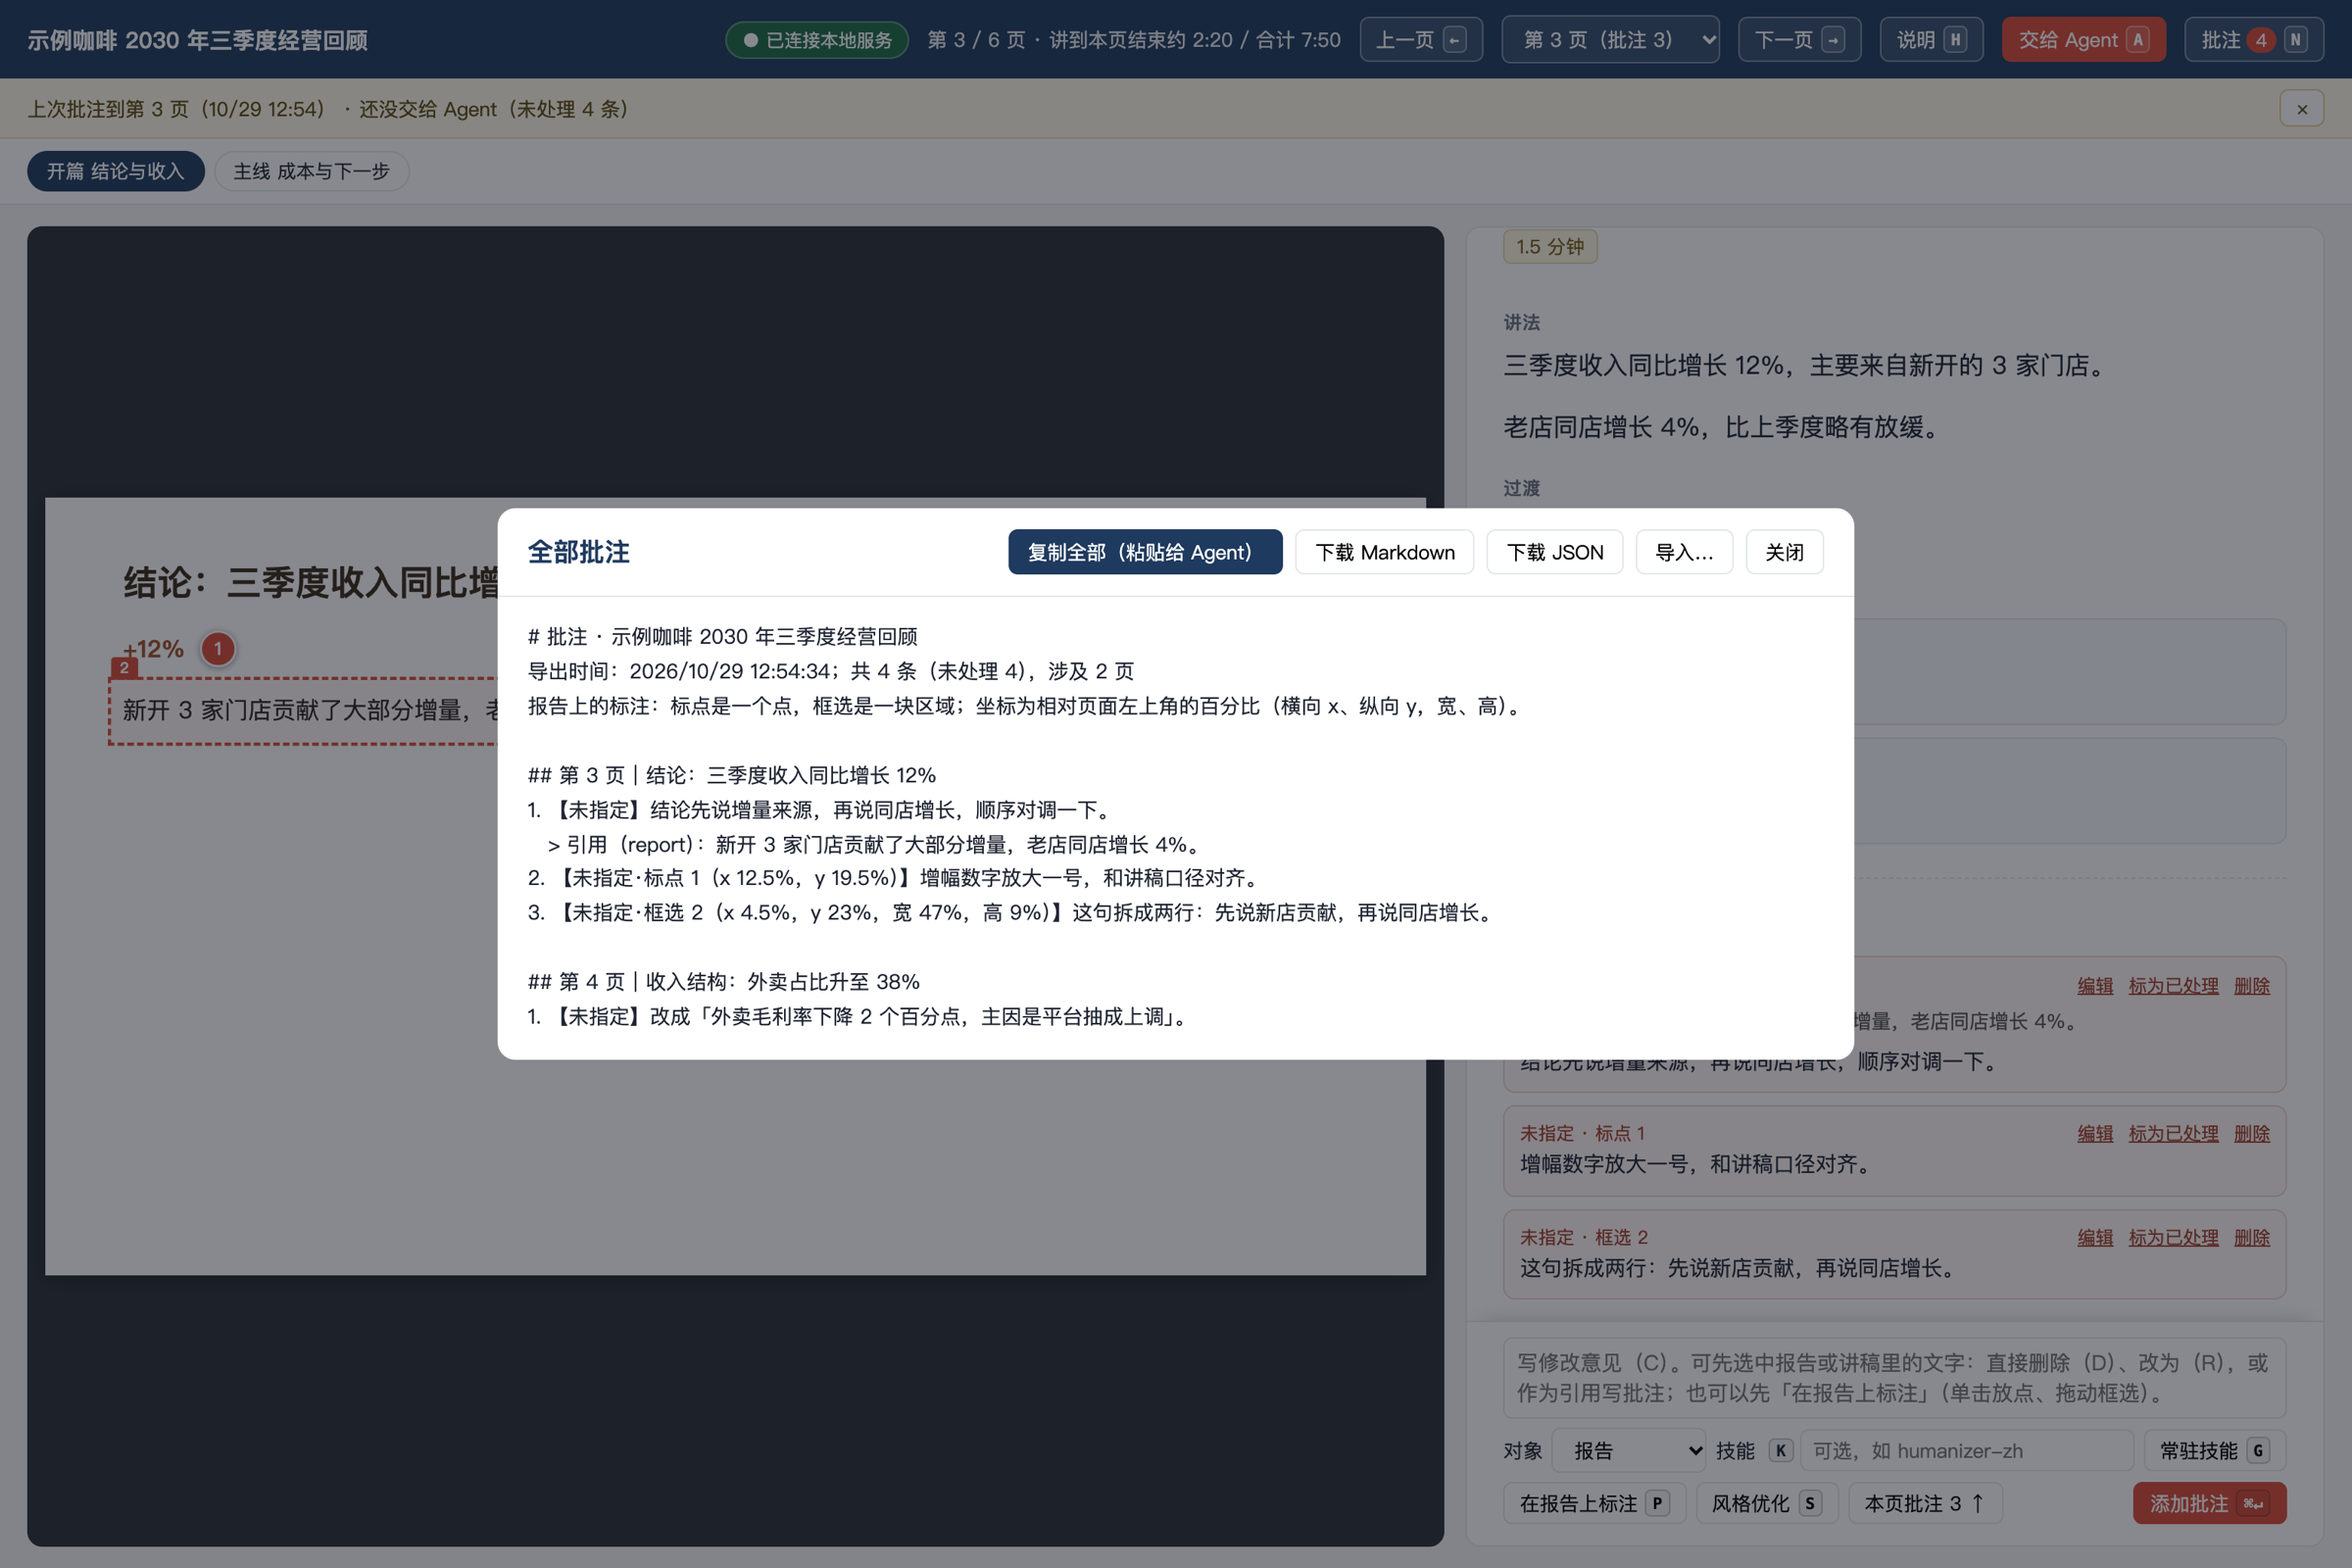
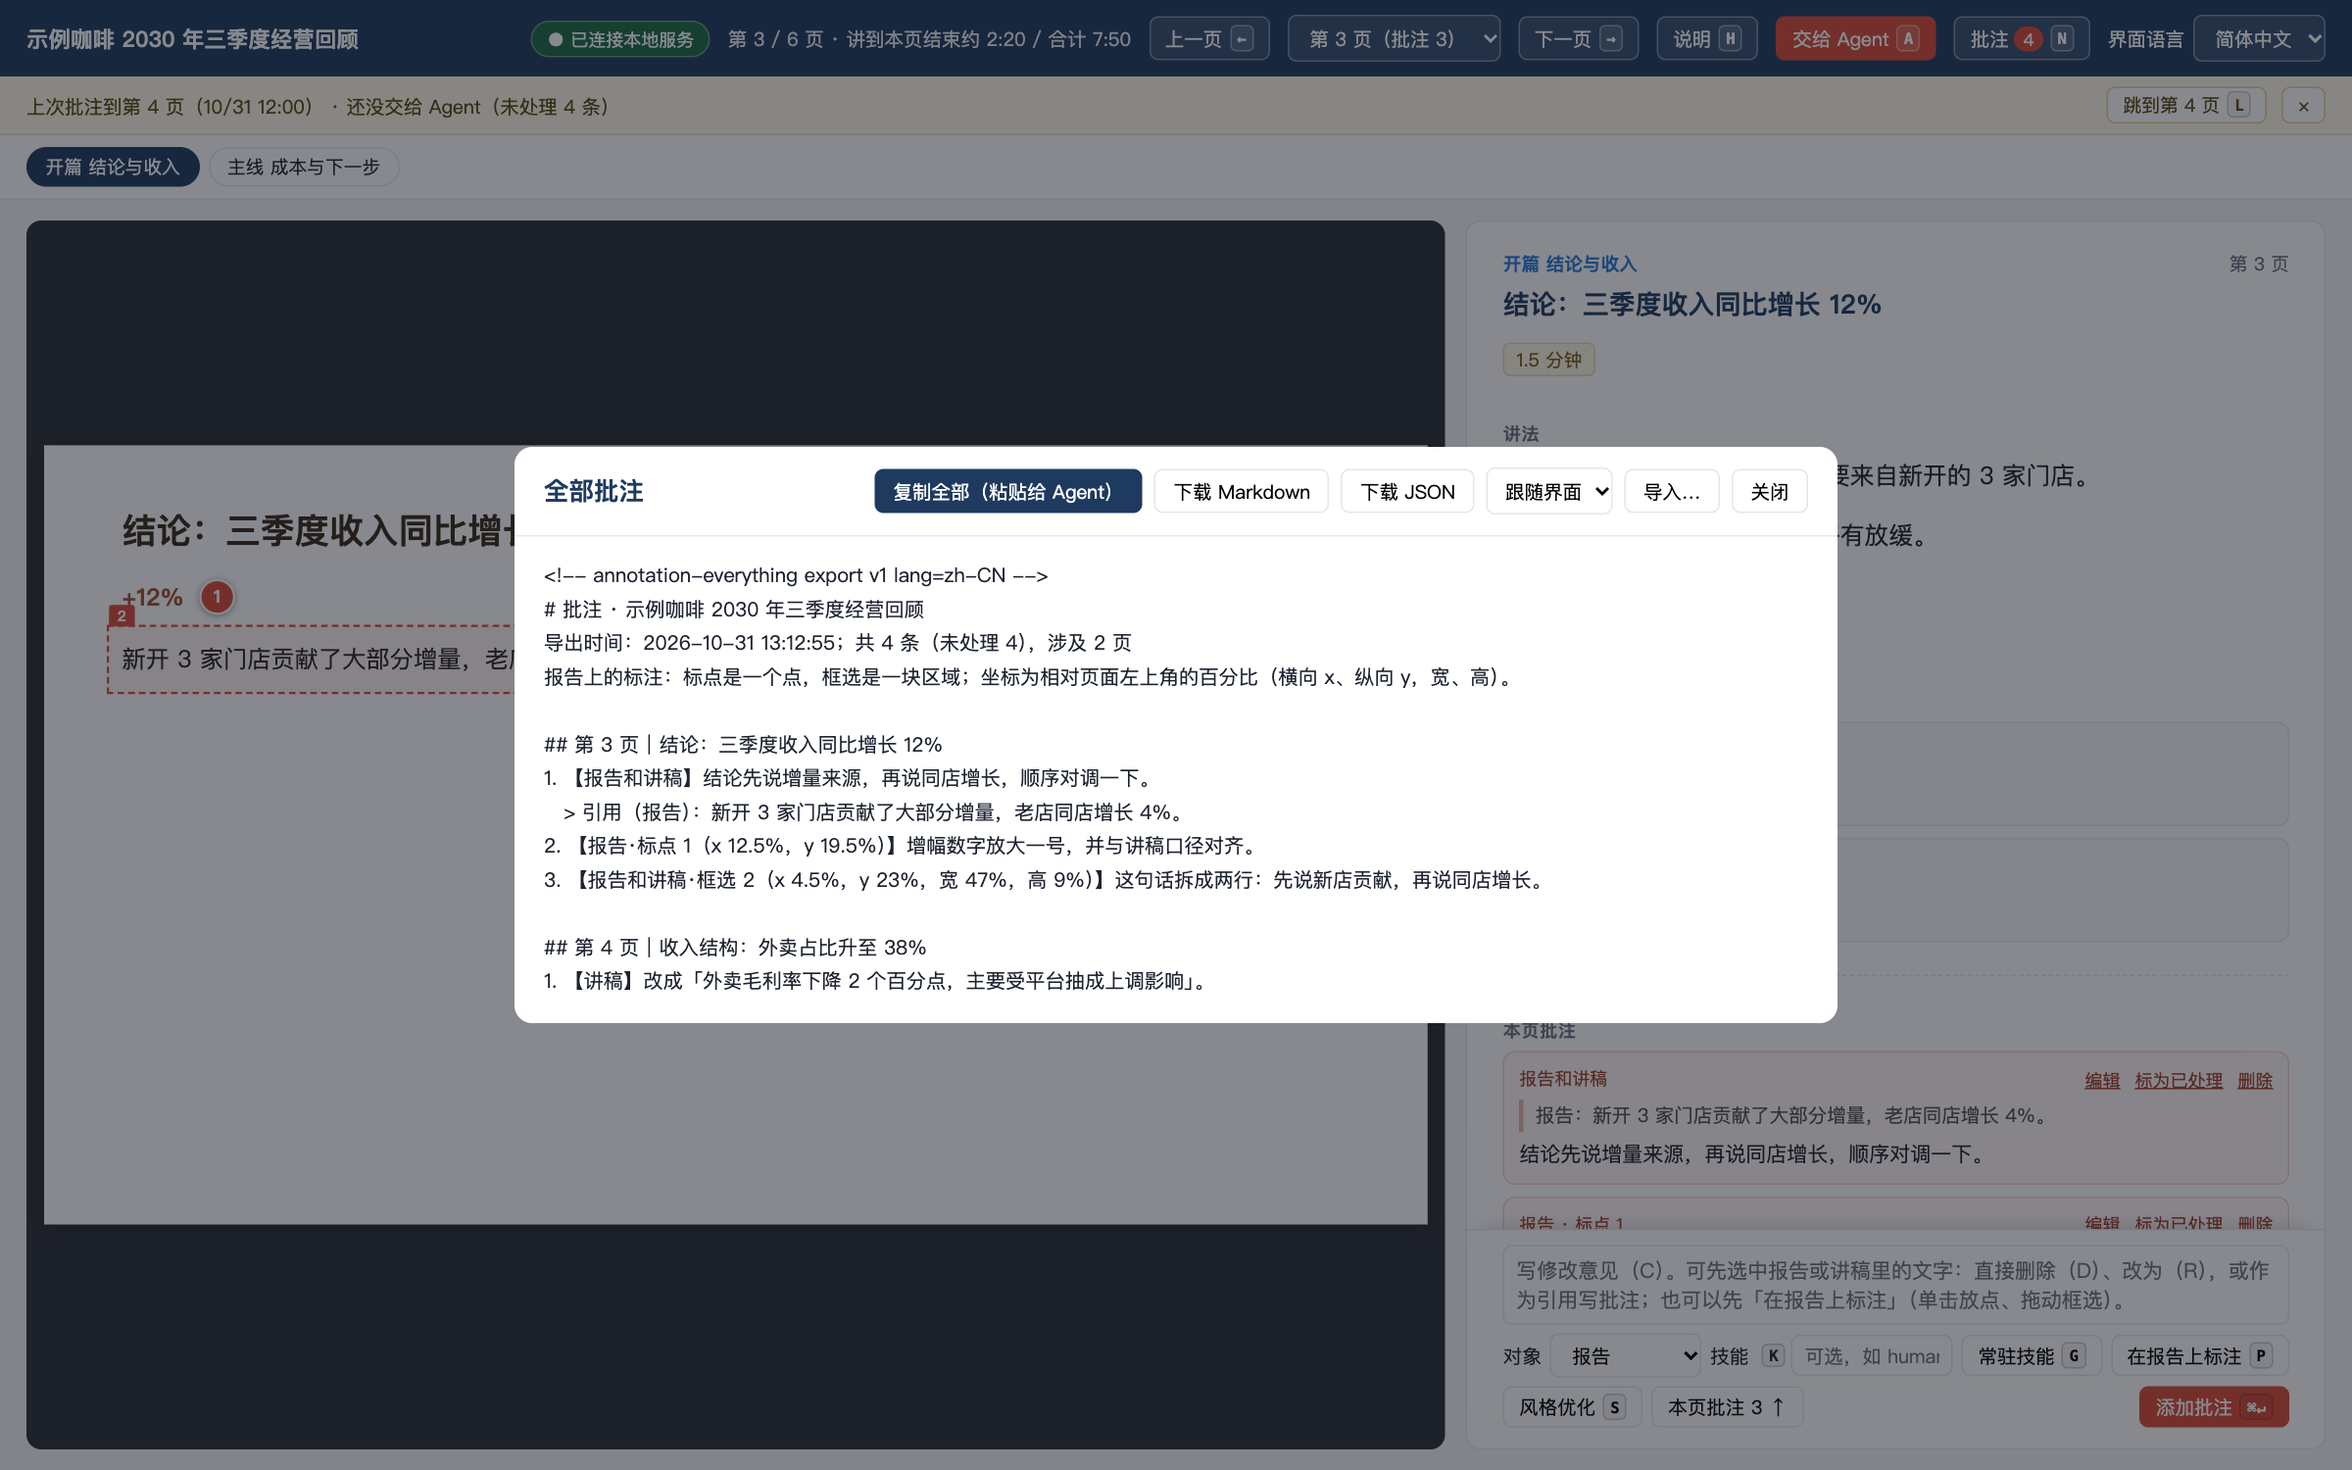
fix: 校正导出契约验证并同步双语文档截图

diff --git a/tests/test_export_format.py b/tests/test_export_format.py
@@ -7,11 +7,13 @@ export_import_checks 用同一批用例核对。只用标准库：python3 -m uni
 from __future__ import annotations
 
 import io
+import importlib.util
 import json
 import os
 import sys
 import tempfile
 import unittest
+from unittest import mock
 from contextlib import redirect_stderr, redirect_stdout
 from pathlib import Path
 
@@ -128,15 +130,8 @@ class MarkerTests(unittest.TestCase):
 
     ZH_ONLY = ("## 第 3 页｜", "【已处理】", "【已初改·待复核】")
 
-    def test_grammar_literals_do_not_come_from_the_catalog(self):
-        """普通 UI 文案修改不能隐式改变已发布的交换文法：文法字面量不在界面词典里。"""
-        for locale in ("zh-CN", "en"):
-            messages = i18n.load_catalog(locale)["messages"]
-            for key, value in messages.items():
-                text = value if isinstance(value, str) else ""
-                for literal in self.GRAMMAR_LITERALS + self.ZH_ONLY:
-                    self.assertNotIn(literal, text, f"{locale} 的 {key} 里出现了文法字面量 {literal!r}")
-        # 同一批字面量必须在导出里真的出现（中文的看中文导出，英文的看英文导出）
+    def test_version_one_labels_stay_fixed(self):
+        """交换格式保持 v1 标签；显示文案可以恰好使用相同的词，不代表文法依赖词典。"""
         with_resolved = rich_notes() + [{"id": "r" * 16, "page": 9, "title": "结尾", "target": "报告",
                                           "text": "已处理的意见", "status": "resolved",
                                           "at": "2026-10-27T14:00:00Z"}]
@@ -150,16 +145,17 @@ class MarkerTests(unittest.TestCase):
                 self.assertIn(literal, en)   # 其余几个这批合成数据里没有对应字段
 
     def test_ui_copy_change_does_not_change_the_grammar(self):
-        before = ef.render(rich_notes(), title="t", lang="en", exported_at=AT)
-        catalogs = i18n.load_catalog("en")
-        saved = catalogs["messages"].get("viewer.add")
-        catalogs["messages"]["viewer.add"] = "Totally different button text"
-        try:
-            after = ef.render(rich_notes(), title="t", lang="en", exported_at=AT)
-        finally:
-            if saved is not None:
-                catalogs["messages"]["viewer.add"] = saved
-        self.assertEqual(before, after)
+        """从模块加载到导出和解析都不读取 UI 词典，普通文案变化不会影响交换格式。"""
+        before = {lang: ef.render(rich_notes(), title="t", lang=lang, exported_at=AT)
+                  for lang in ("zh-CN", "en")}
+        spec = importlib.util.spec_from_file_location("isolated_export_format", SCRIPTS / "export_format.py")
+        isolated = importlib.util.module_from_spec(spec)
+        with mock.patch.object(i18n, "load_catalog", side_effect=AssertionError("交换格式不得读取 UI 词典")) as load:
+            spec.loader.exec_module(isolated)
+            for lang, text in before.items():
+                self.assertEqual(isolated.render(rich_notes(), title="t", lang=lang, exported_at=AT), text)
+                self.assertEqual(isolated.parse_markdown(text), ef.parse_markdown(text))
+            load.assert_not_called()
 
 
 class RoundTripTests(unittest.TestCase):

diff --git a/skill/annotation-everything/references/formats.md b/skill/annotation-everything/references/formats.md
@@ -309,4 +309,4 @@ python3 $S/notes.py export 审阅目录 [--lang zh-CN|en|auto] [--format md|json
 python3 $S/notes.py import 审阅目录 批注文件.md|json [--force]
 ```
 
-`--lang` 的优先级与 `show --locale` 相同：`--lang` > `AE_LOCALE` > 审阅里存的 `locale` > 中文。默认只导未处理，`--all` 含已处理。不带 `--out` 时打印到标准输出。文件名（页面下载与 `--out` 给目录时）保留审阅识别 `namespace` 和 12 位紧凑 UTC 时间，只有按语言换的前缀会变（`批注_` / `annotations_`）；导出时间写本地时间 `YYYY-MM-DD HH:MM:SS`，两种语言同一格式，时间戳、数值和坐标都不随地区格式改变。
+`--lang` 的优先级与 `show --locale` 相同：`--lang` > `AE_LOCALE` > 审阅里存的 `locale` > 中文。默认只导未处理，`--all` 含已处理。不带 `--out` 时打印到标准输出；`--out` 指定完整文件路径，不接受目录。页面下载的文件名保留审阅识别 `namespace` 和 12 位紧凑 UTC 时间，只有按语言换的前缀会变（`批注_` / `annotations_`）；导出时间写本地时间 `YYYY-MM-DD HH:MM:SS`，两种语言同一格式，时间戳、数值和坐标都不随地区格式改变。
